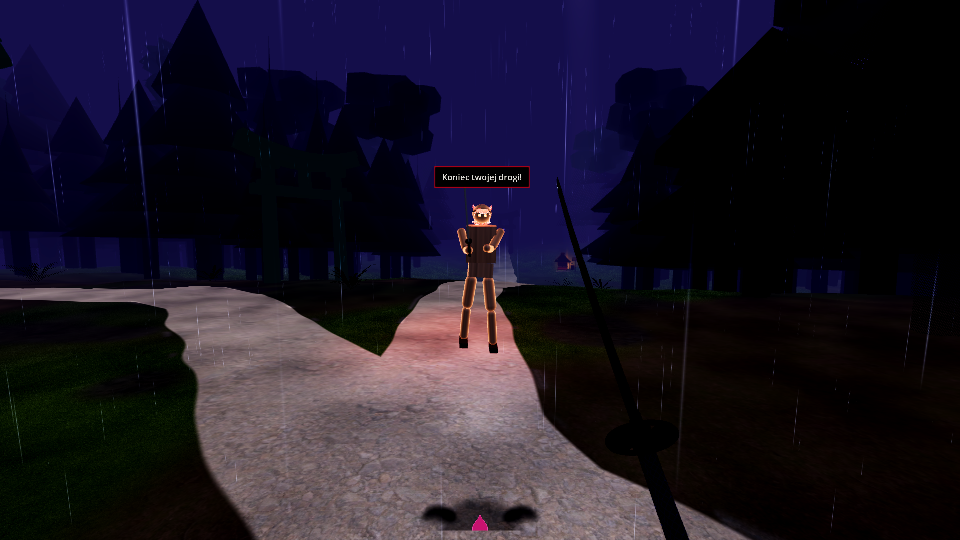
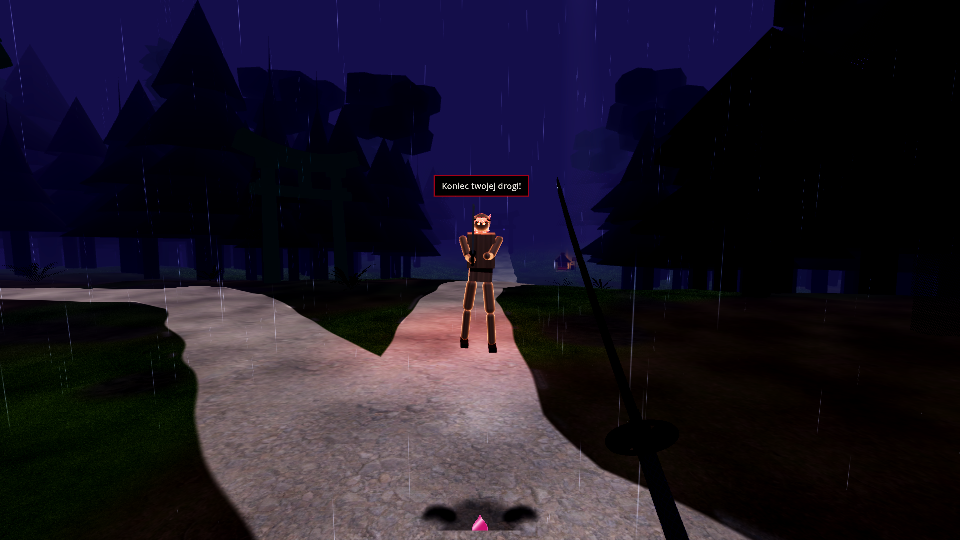
fix(n13): boss body_scale 1.08, softer ember rim (0.86/0.42/0.21, power 1.6); new 5 m shot; README: retreat bisect (fails at scale 1.0, without intro and with demo 120 s too)

Changed region(s): [[0.4375, 0.2963, 0.5625, 0.6519], [0.125, 0.0296, 0.1562, 0.2963]]

diff --git a/docs/n13/README.md b/docs/n13/README.md
@@ -37,3 +37,15 @@ o 0,17 m w 1 s (próg >0,3 m, nie osłabiony). Log: `move_velocity` dochodzi do 
 więc przyczyna leży gdzie indziej (stopy/tarcie lub balans przy wyższym pelvisie) – do dalszej
 diagnozy. Stare faile: HP→0 (był przed N13), Phase 3 windup i „requests every 2–5 s”
 są niestabilne (przechodzą/padają między przebiegami; baseline przed N13: 5 faili).
+
+## fix2 (review bdf3e5a)
+
+- `DUELIST_BODY_SCALE` 1,15 → **1,08** (≈1,93 m; test wzrostu 1,85–2,3 m przechodzi). Momenty ×k² zostają.
+- Rim przygaszony: `rim_tint` (0,86; 0,42; 0,21), `rim_power` 1,6 (węższa, mniej „neonowa” krawędź).
+  Na nowym `after_boss_5m.png` tors i kończyny dalej odcinają się od lasu. Przód torsu jest ciemny.
+- **Retreat nadal FAIL** (cofa się o 0,14 m, próg >0,3 m, nie osłabiony). Bisekcja (oni_boss_ai_test, po 1 przebiegu):
+  skala 1,08 → 0,14 m; **skala 1,0** → 0,14 m; demo 120 s zamiast 60 s → 0,14 m; **bez wejścia (intro)** → 0,21 m.
+  Żadna z tych zmian osobno nie przywraca progu, więc skala nie jest przyczyną. Baseline sprzed N13 przeszedł ten
+  check w jednym przebiegu. Nie sprawdziłem jeszcze: kombinacji zmian, wpływu frontowego spawnu w symulacji dema
+  i niestabilności samego checku (kilka przebiegów baseline).
+- Stare faile: HP→0 (był przed N13). Phase 3 windup i „requests every 2–5 s” są niestabilne, padają w części przebiegów.
